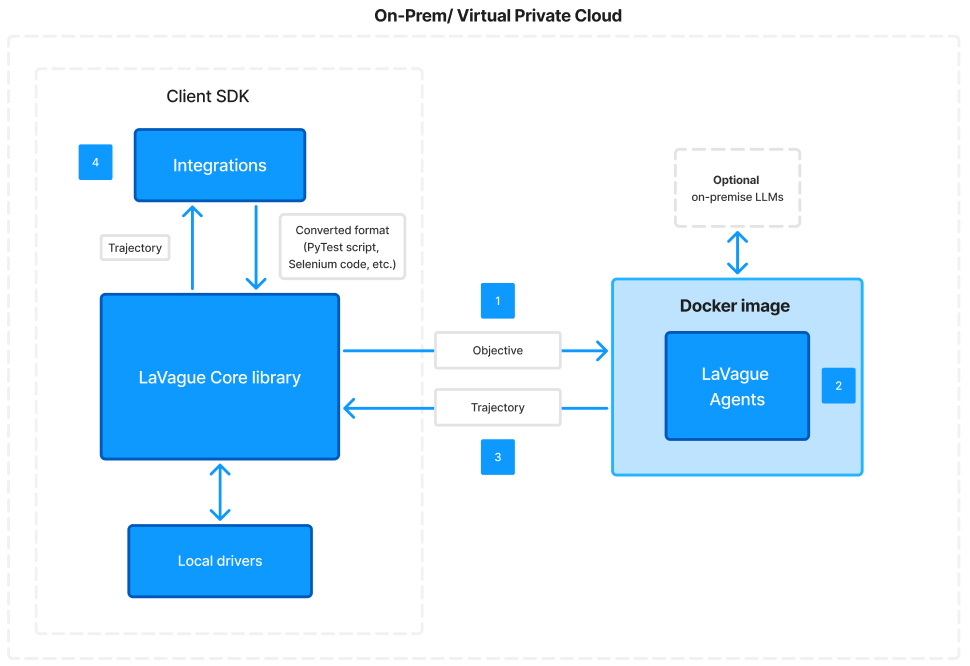
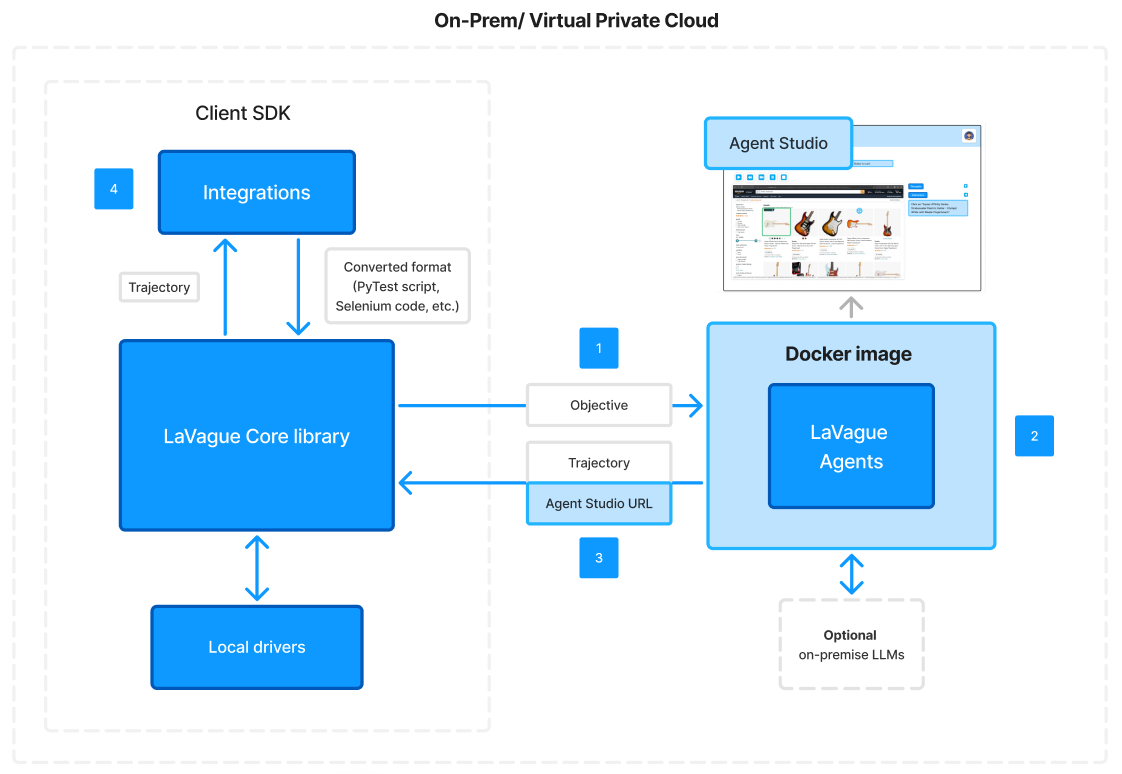
docs: update

diff --git a/docs/docs/get-started/on-prem.md b/docs/docs/get-started/on-prem.md
@@ -6,6 +6,16 @@ If you would like to deploy LaVague on-premise or find out more, please [get in 
 
 ![LaVague Workflow](https://raw.githubusercontent.com/lavague-ai/LaVague/drafting-some-docs/docs/assets/architecture-on-prem.png)
 
+## Architecture
+
+LaVague on-premise is made up of a:
+
+- LaVague Docker Application - contains the core logic to leverage LLMs to generate multi-action trajectories to generate and perform tasks on the web
+- Agent Studio - a locally hosted web interface to visualize and replay the trajectories generated by agents
+- A Python SDK including methods to:
+    - Facilitate calls to the Docker application
+    - Exporters which convert generated actions into the format needed for specific use cases, such as PyTest scripts for web testing
+
 ## Definitions
 
 Let's first define some key elements in our LaVague Agent architecture:
@@ -22,10 +32,10 @@ Let's first define some key elements in our LaVague Agent architecture:
 
 Let's take a look at the basic LaVague workflow.
 
-1. We use the `Python client SDK` to send an `objective` and `URL` to the LaVague Docker image deployed on premise. 
+1. We use the `Python client SDK` to send a text `objective` and `URL` to the LaVague Docker image deployed on premise. We can also optionally send a `user_data` dictionary with key-value pairs of additional information to be taken into account by the agent.
 
 2. This Docker application will leverage AI Web Agents to generate and perform the series of actions needed to achieve this objective. Planning and the generation of actions can be performed by remote or locally deployed LLMs. A local web driver is used to execute each action.
 
-3. The agent will return a `Trajectory` JSON object.
+3. The agent will return a `Trajectory` JSON object, as outputting a URL for the `Agent Studio` web interface where users can view the Web Agent's actions live or a posteriori. 
 
 4. The user can then optionally use this `Trajectory` object with additional integrations, such as converting the `trajectory` into code or a PyTest script that can be used for web testing.

diff --git a/docs/docs/get-started/architecture.md b/docs/docs/get-started/architecture.md
@@ -7,8 +7,7 @@ LaVague is made up of a:
 - A Python SDK including methods to:
     - Facilitate usage of the LaVague API
     - Exporters which convert generated actions into the format needed for specific use cases, such as PyTest scripts for web testing
-    - Tooling for users
-
+    
 !!! note "On-premise deployment"
     While LaVague Agents are leveraged via a remote API by default, we can provide on-premise deployment for entreprise users. Find out more [here].
 
@@ -30,10 +29,10 @@ Let's first define some key elements in our LaVague Agent architecture:
 
 Let's now take a look at the basic LaVague workflow.
 
-1. We use the `Python client SDK` to send an `objective` and `URL` to the LaVague API.
+1. We use the `Python client SDK` to send a text `objective` and `URL` to the LaVague API. We can also optionally send a `user_data` dictionary with key-value pairs of additional information to be taken into account by the agent.
 
 2. The API will leverage a Web Agent to generate and perform a series of actions needed to achieve this objective. Planning and the generation of actions is performed by LLMs under the hood, while managed or local drivers can be used to perform each action.
 
-3. The agent will return a `Trajectory` JSON object to the user.
+3. The agent will return a `Trajectory` JSON object to the user as well, as outputting a URL for the `Agent Studio` web interface where users can view the Web Agent's actions live or a posteriori. 
 
 4. The user can then optionally use this `Trajectory` object with additional integrations, such as converting the `trajectory` into code or a PyTest script that can be used for web testing.
